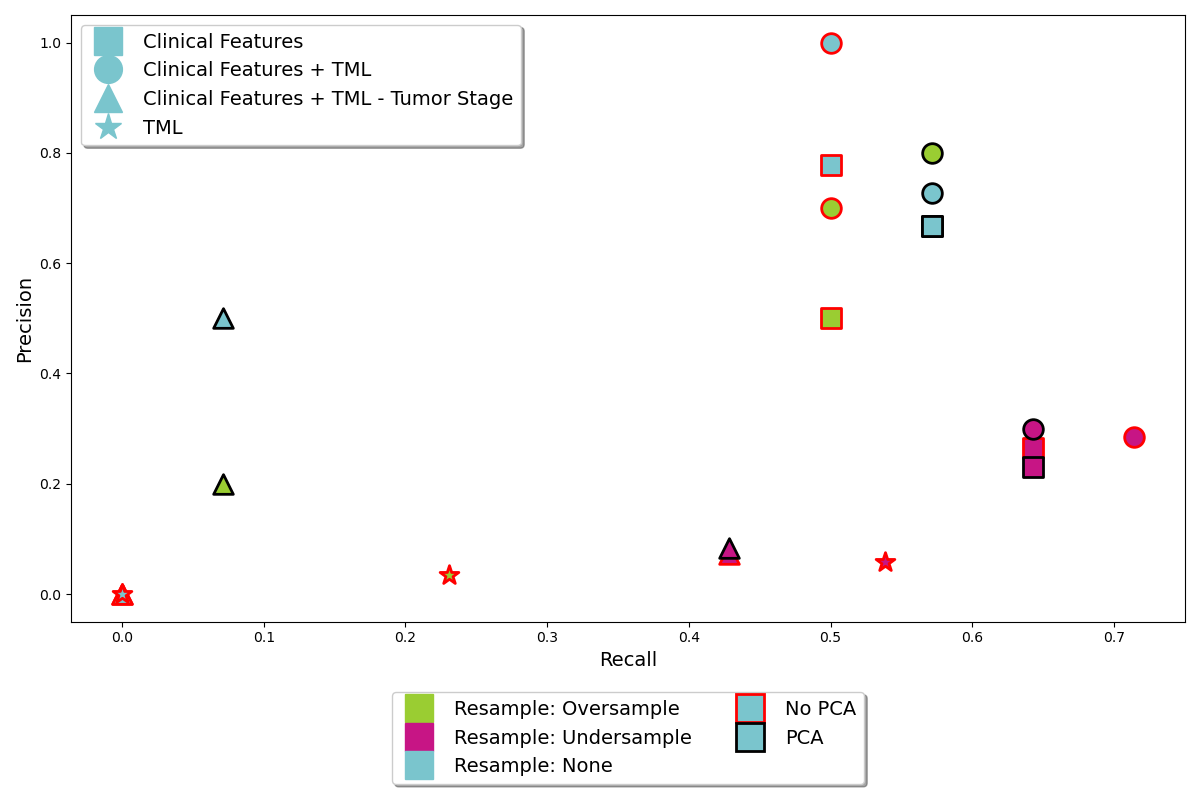
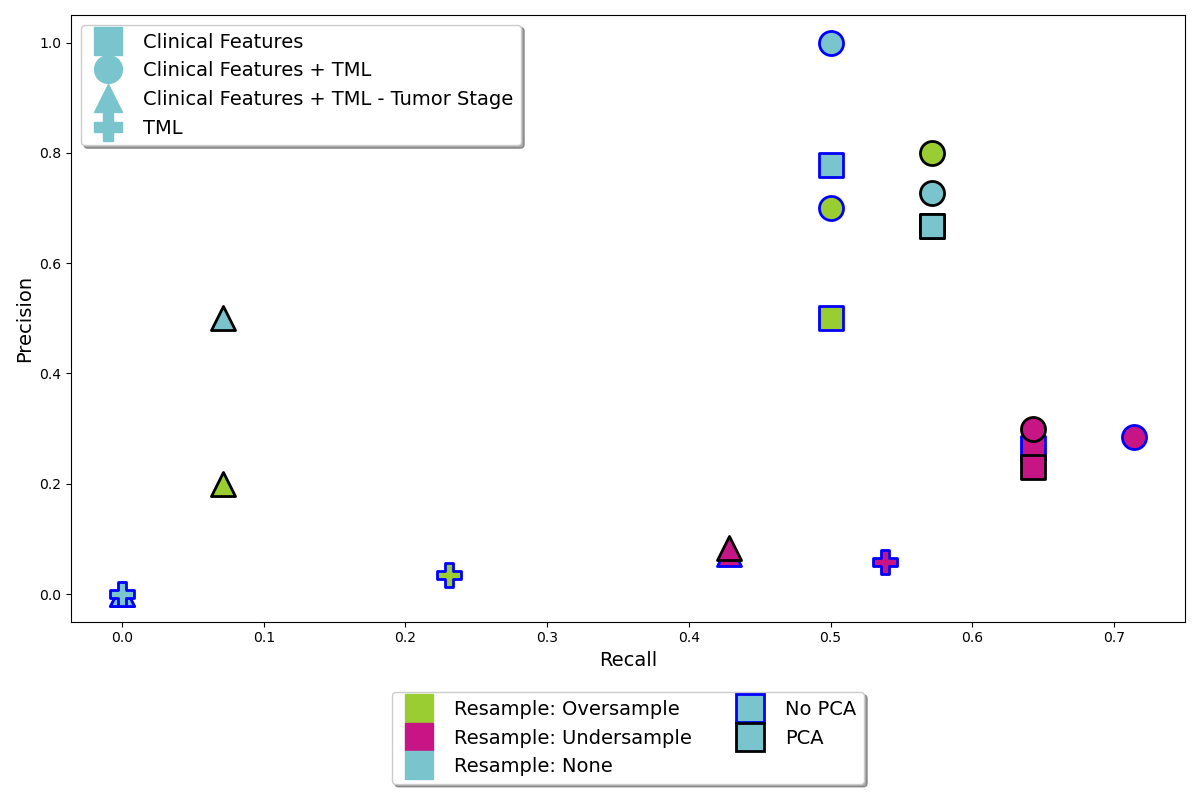
Improve precision plot

diff --git a/pipeline/03-Meta_Analysis/precision_recall.py b/pipeline/03-Meta_Analysis/precision_recall.py
@@ -9,7 +9,7 @@ from matplotlib.figure import Figure
 
 FIGSIZE = (12, 8)
 FONTSIZE = 14
-MARKER_SIZE = 200
+MARKER_SIZE = 300
 
 PATH = os.path.dirname(os.path.abspath(__file__))
 META_DATA = os.path.join(PATH, os.pardir, os.pardir, "data", "meta_data")
@@ -32,12 +32,12 @@ def scatter_plot(axes: Axes, figure: Figure, df: pd.DataFrame) -> None:
     :return: None, alter axes
     """
     legend1 = None
-    markers = ["s", "o", "^", "*"]
+    markers = ["s", "o", "^", "P"]
     labels = sorted(pd.unique(df.index))
     handles = list()
     for index, label in enumerate(labels):
         handles.append(mlines.Line2D([], [], color="#7AC5CD", marker=markers[index], linestyle="None",
-                                     markersize=MARKER_SIZE // 10, label=label))
+                                     markersize=20, label=label))
         if len(handles) == 4:
             legend1 = axes.legend(handles=handles, fontsize=FONTSIZE, loc='upper left',
                                   ncol=1, fancybox=True, shadow=True)
@@ -45,13 +45,13 @@ def scatter_plot(axes: Axes, figure: Figure, df: pd.DataFrame) -> None:
         for resampling, color in [("Oversample", "#9ACD32"), ("Undersample", "#C71585"), ("None", "#7AC5CD")]:
             if index == len(labels) - 1:
                 handles.append(mlines.Line2D([], [], color=color, marker=markers[0], linestyle="None",
-                                             markersize=MARKER_SIZE // 10, label="Resample: {}".format(resampling)))
+                                             markersize=20, label="Resample: {}".format(resampling)))
             for pca in [False, True]:
                 if index == len(labels) - 1 and resampling == "None":
                     graphical_params = {
                         "color": "#7AC5CD", "marker": markers[0], "linestyle": "None",
-                        "markeredgecolor": "r", "markeredgewidth": 2.0,
-                        "markersize": MARKER_SIZE // 10, "label": "No PCA"
+                        "markeredgecolor": "b", "markeredgewidth": 2.0,
+                        "markersize": 20, "label": "No PCA"
                     }
                     if pca:
                         graphical_params["markeredgecolor"] = "k"
@@ -73,7 +73,7 @@ def scatter_plot(axes: Axes, figure: Figure, df: pd.DataFrame) -> None:
                         graphical_params["edgecolor"] = "k"
                         graphical_params["linewidth"] = 2.0
                     else:
-                        graphical_params["edgecolor"] = "r"
+                        graphical_params["edgecolor"] = "b"
                         graphical_params["linewidth"] = 2.0
                     axes.scatter(datum["M1: Recall"],
                                  datum["M1: Precision"],
